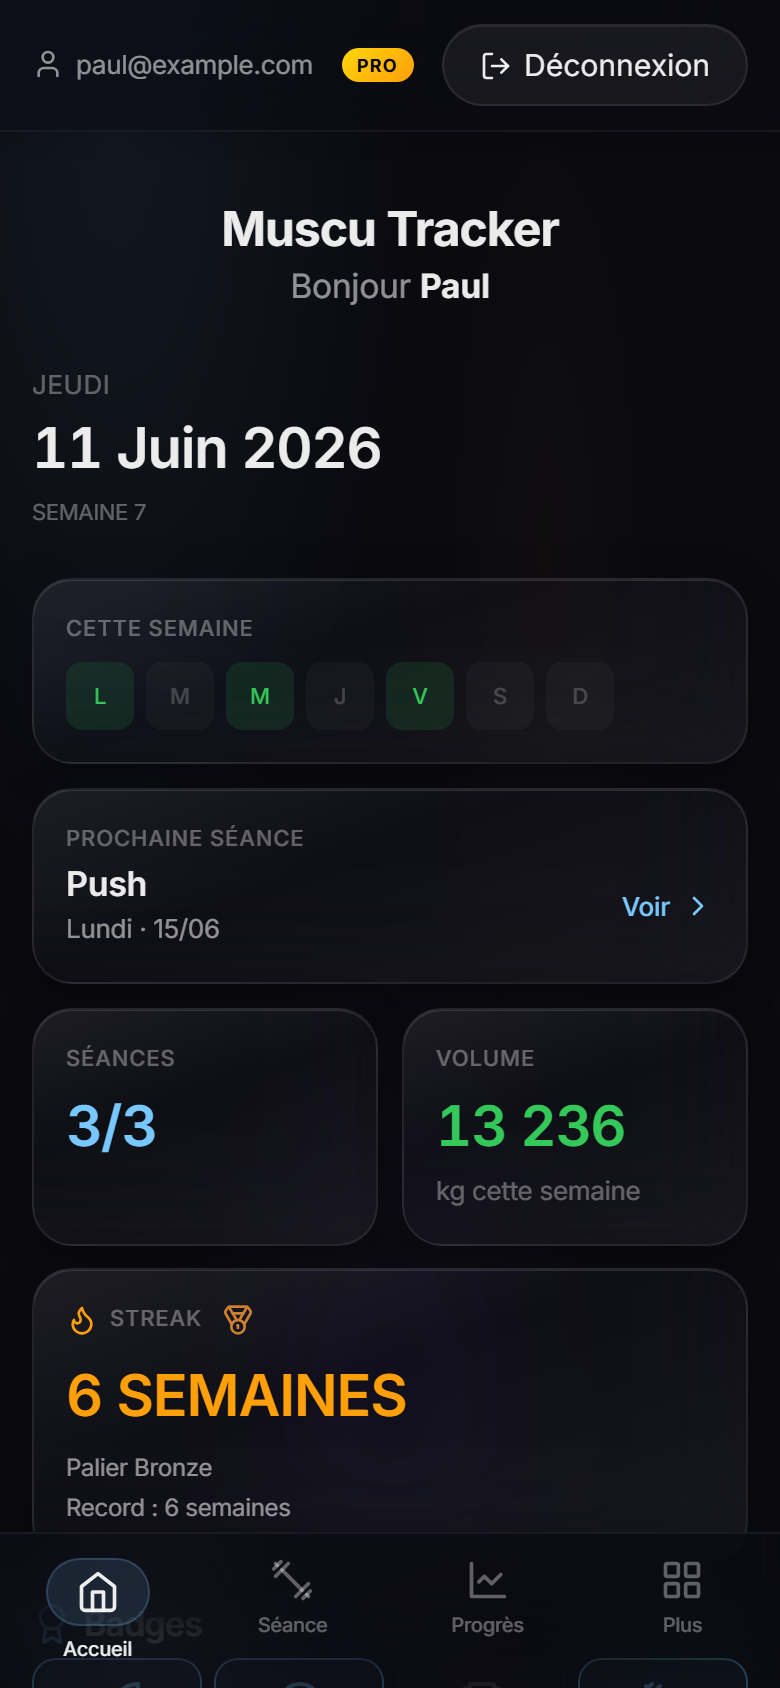
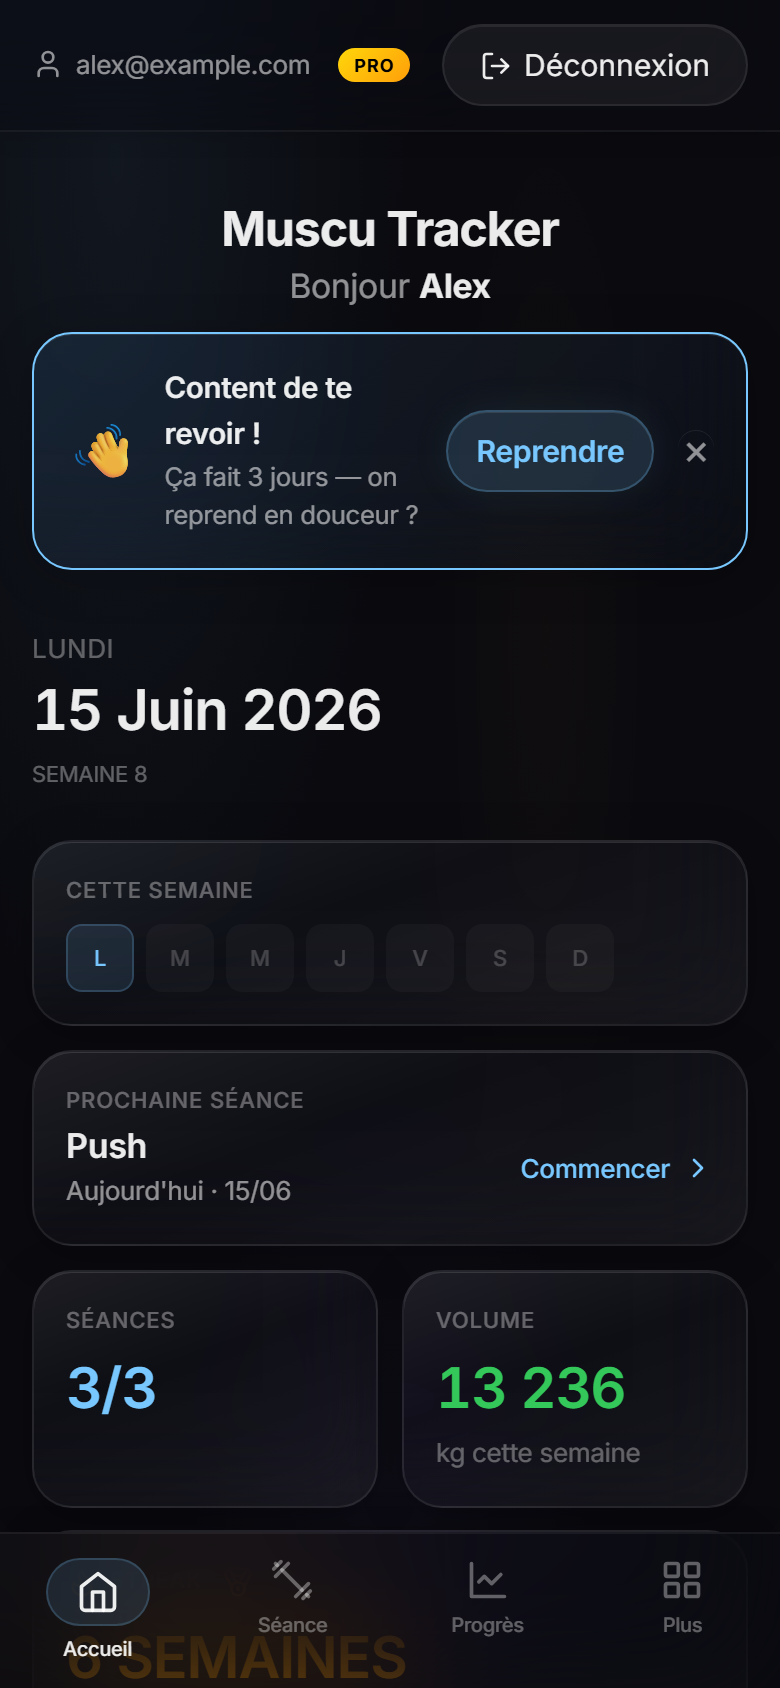
chore(store): assets fiche Play Store + identité démo neutre
- docs/PLAY_STORE_LISTING.md : nom, descriptions, déclarations prêtes à coller.
- static/feature_graphic.html : générateur de la bannière 1024x500.
- static/promo/feature_graphic_1024x500.png + captures régénérées.
- run_local_fake.py : e-mail démo neutralisé (alex@example.com) + is_vip_full.

diff --git a/pwa/static/feature_graphic.html b/pwa/static/feature_graphic.html
@@ -1,0 +1,100 @@
+<!doctype html>
+<html lang="fr">
+<head>
+<meta charset="utf-8">
+<style>
+  * { margin:0; padding:0; box-sizing:border-box; }
+  html,body { width:1024px; height:500px; overflow:hidden; }
+  body {
+    font-family: -apple-system, "Segoe UI", Roboto, Helvetica, Arial, sans-serif;
+    background:
+      radial-gradient(120% 140% at 88% 20%, rgba(120,200,255,0.22) 0%, rgba(120,200,255,0.05) 35%, rgba(10,10,15,0) 60%),
+      radial-gradient(90% 120% at 0% 100%, rgba(120,200,255,0.10) 0%, rgba(10,10,15,0) 55%),
+      #0a0a0f;
+    position:relative;
+    display:flex; align-items:center;
+  }
+  /* fines lignes décoratives */
+  body::after{
+    content:""; position:absolute; inset:0;
+    background:
+      linear-gradient(rgba(255,255,255,0.025) 1px, transparent 1px) 0 0/100% 56px;
+    mask: linear-gradient(90deg, transparent, #000 30%, #000 70%, transparent);
+    opacity:.5;
+  }
+  .left { width:600px; padding:0 0 0 70px; position:relative; z-index:2; }
+  .brandrow { display:flex; align-items:center; gap:22px; margin-bottom:30px; }
+  .icon {
+    width:104px; height:104px; border-radius:26px;
+    box-shadow: 0 12px 40px rgba(0,0,0,.55), 0 0 28px rgba(120,200,255,.18);
+  }
+  .title { font-size:58px; font-weight:800; color:#fff; letter-spacing:-1.5px; line-height:1; }
+  .pro {
+    display:inline-block; margin-top:12px; font-size:15px; font-weight:800;
+    color:#0a0a0f; background:linear-gradient(135deg,#ffe14d,#ffd60a);
+    padding:4px 12px; border-radius:999px; letter-spacing:1px;
+    box-shadow:0 0 22px rgba(255,214,10,.35);
+  }
+  .tag { font-size:30px; font-weight:600; color:rgba(255,255,255,.92); line-height:1.25; margin-bottom:26px; }
+  .tag b { color:#78c8ff; }
+  .features { display:flex; flex-wrap:wrap; gap:10px 14px; max-width:560px; }
+  .chip {
+    font-size:17px; font-weight:600; color:rgba(255,255,255,.85);
+    background:rgba(255,255,255,.06); border:1px solid rgba(255,255,255,.10);
+    padding:9px 16px; border-radius:14px; backdrop-filter:blur(6px);
+  }
+  .chip b{ color:#78c8ff; font-weight:800; }
+  /* carte stats à droite */
+  .right { position:absolute; right:64px; top:50%; transform:translateY(-50%); z-index:2; }
+  .card {
+    width:280px; border-radius:26px; padding:26px;
+    background:linear-gradient(160deg, rgba(30,33,42,.92), rgba(16,18,24,.92));
+    border:1px solid rgba(255,255,255,.10);
+    box-shadow:0 24px 70px rgba(0,0,0,.6), inset 0 1px 0 rgba(255,255,255,.06);
+  }
+  .streak { display:flex; align-items:center; gap:14px; margin-bottom:22px; }
+  .flame { font-size:46px; filter:drop-shadow(0 0 14px rgba(255,159,10,.5)); }
+  .streak .n { font-size:46px; font-weight:800; color:#fff; line-height:1; }
+  .streak .l { font-size:14px; color:rgba(255,255,255,.55); }
+  .stats { display:grid; grid-template-columns:1fr 1fr; gap:12px; }
+  .stat { background:rgba(255,255,255,.05); border-radius:16px; padding:14px; }
+  .stat .v { font-size:26px; font-weight:800; color:#78c8ff; line-height:1; }
+  .stat .v.green{ color:#34c759; }
+  .stat .k { font-size:12px; color:rgba(255,255,255,.5); margin-top:6px; }
+</style>
+</head>
+<body>
+  <div class="left">
+    <div class="brandrow">
+      <img class="icon" src="icon-512.png" alt="">
+      <div>
+        <div class="title">Muscu Tracker</div>
+        <span class="pro">PRO</span>
+      </div>
+    </div>
+    <div class="tag">Suis tes séances.<br>Visualise ta <b>progression</b>.</div>
+    <div class="features">
+      <span class="chip"><b>+</b> Programmes & plannings</span>
+      <span class="chip"><b>+</b> Carte musculaire</span>
+      <span class="chip"><b>+</b> Coach IA</span>
+      <span class="chip"><b>+</b> Hors-ligne</span>
+    </div>
+  </div>
+
+  <div class="right">
+    <div class="card">
+      <div class="streak">
+        <div class="flame">🔥</div>
+        <div>
+          <div class="n">8</div>
+          <div class="l">semaines d'affilée</div>
+        </div>
+      </div>
+      <div class="stats">
+        <div class="stat"><div class="v">3/3</div><div class="k">séances</div></div>
+        <div class="stat"><div class="v green">13 236</div><div class="k">kg cette semaine</div></div>
+      </div>
+    </div>
+  </div>
+</body>
+</html>

diff --git a/pwa/run_local_fake.py b/pwa/run_local_fake.py
@@ -165,8 +165,9 @@ def test_seed():
     import time
     session.clear()
     session["user_id"] = USER_ID
-    session["email"] = "paul@example.com"
+    session["email"] = "alex@example.com"
     session["is_vip"] = True
+    session["is_vip_full"] = True
     session["is_vip_ts"] = time.time()
     session["onboarded"] = True
     session.permanent = True

diff --git a/docs/PLAY_STORE_LISTING.md b/docs/PLAY_STORE_LISTING.md
@@ -1,0 +1,70 @@
+# Fiche Play Store — Muscu Tracker (textes prêts à coller)
+
+## Nom de l'app (max 30 caractères)
+```
+Muscu Tracker : suivi muscu
+```
+
+## Description courte (max 80 caractères)
+```
+Suivi de musculation : séances, progression, body map et coach IA personnel.
+```
+
+## Description complète (max 4000 caractères)
+```
+Muscu Tracker, c'est ton carnet d'entraînement intelligent : note tes séances en quelques secondes, suis ta progression et reste motivé sur la durée.
+
+Pensé pour la salle comme pour la maison, propre, rapide et sans pub envahissante.
+
+💪 TES SÉANCES, SANS FRICTION
+• Saisie ultra-rapide des séries (reps + poids), avec rappel de ta dernière perf
+• Chrono de repos automatique avec signal de fin
+• Pré-remplissage intelligent des charges
+• Ajout de cardio directement dans la séance
+• Fonctionne hors-ligne : tes saisies se synchronisent au retour du réseau
+
+📈 UNE PROGRESSION QUI SE VOIT
+• Calendrier d'assiduité mois par mois
+• Volume d'entraînement semaine après semaine
+• Carte musculaire interactive : visualise les muscles travaillés
+• Estimation de ton 1RM et records personnels (Hall of Fame)
+• Séries de jours d'affilée (streak) avec paliers Bronze → Diamant
+
+📋 DES PROGRAMMES POUR TOUS LES NIVEAUX
+• 19 programmes prêts à l'emploi (Full Body, PPL, Upper/Lower, Home…)
+• Crée et personnalise tes propres programmes et plannings
+• Onboarding guidé pour trouver le programme adapté à ton objectif
+
+⭐ PASSE EN PRO (abonnement optionnel)
+• Coach IA personnel : pose tes questions, obtiens des conseils sur mesure
+• Générateur de programme par IA, adapté à ton matériel et ton objectif
+• Suivi nutrition : besoins caloriques (Mifflin-St Jeor) + journal de repas
+• Statistiques avancées : body map détaillée, 1RM, zoom par mouvement
+• Programmes PRO, multi-programmes, export/import de tes données
+
+🔒 TES DONNÉES T'APPARTIENNENT
+• Connexion sécurisée avec Google
+• Export complet de ton historique à tout moment
+• Suppression de ton compte directement dans l'app
+
+Que tu débutes ou que tu vises la performance, Muscu Tracker t'accompagne à chaque séance. Télécharge, connecte-toi, et commence à progresser dès aujourd'hui.
+```
+
+---
+
+## Assets graphiques requis
+- [x] **Icône** 512×512 PNG → `pwa/static/icon-512.png` (déjà dispo)
+- [ ] **Image de présentation (feature graphic)** 1024×500 PNG/JPG → À créer (on peut la générer)
+- [x] **Captures téléphone** (min 2, max 8) → `pwa/static/promo/promo_*.png` (5 dispo)
+- [ ] (Optionnel) Captures tablette 7" et 10"
+
+## Déclarations obligatoires (questionnaires Play Console)
+- **Politique de confidentialité** (URL publique requise) : `https://muscu-tracker.up.railway.app/confidentialite`
+- **Suppression de compte** : possible dans l'app (Gestion) ; fournir aussi l'URL de la procédure si demandé.
+- **Sécurité des données (Data safety)** : déclarer les données collectées (e-mail via Google, données d'entraînement), chiffrées en transit, suppression possible.
+- **Publicités** : « Cette application contient des annonces » → **OUI** (AdMob côté Free).
+- **Classification du contenu** : remplir le questionnaire (app de fitness → tous publics).
+- **Public cible** : adultes / 13+ (à confirmer selon ton choix).
+- **Catégorie** : Santé et remise en forme.
+- **Coordonnées** : e-mail de contact (public sur la fiche).
+```
